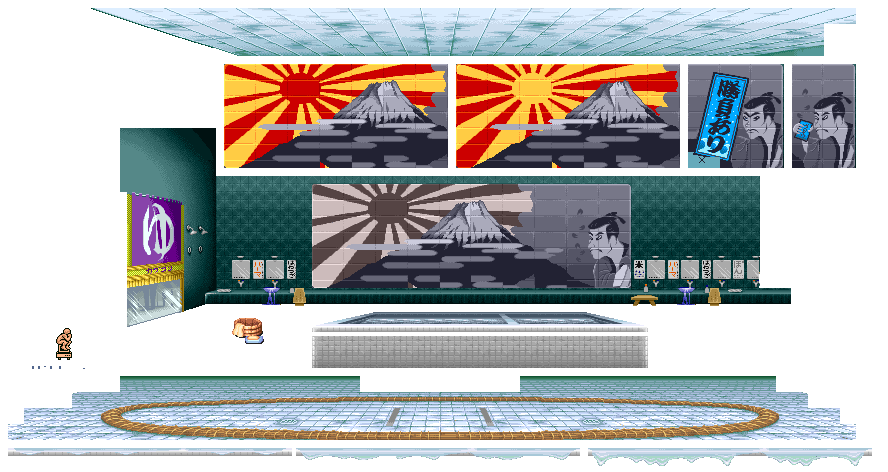
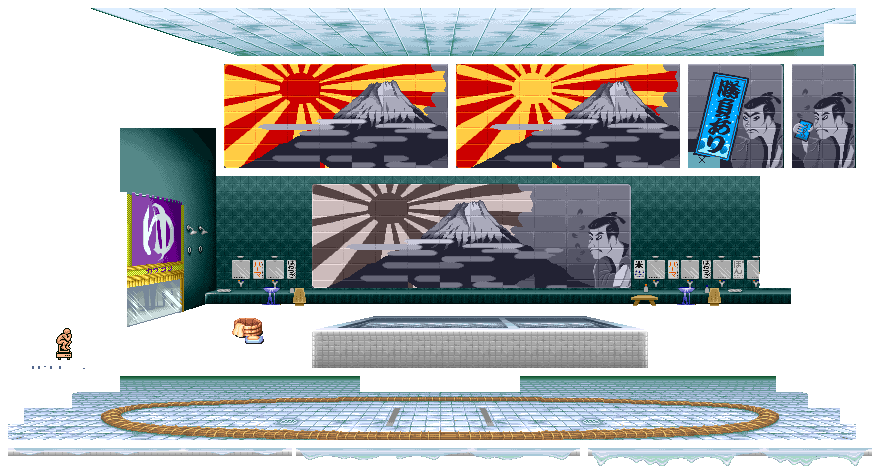
Added some animations on bith scenes

Changed region(s): [[0.3345, 0.6525, 0.7297, 0.7119]]

diff --git a/ModuleSceneKen.cpp b/ModuleSceneKen.cpp
@@ -15,62 +15,90 @@
 ModuleSceneKen::ModuleSceneKen(bool start_enabled) : Module(start_enabled)
 {
 	//Main scene
-	{
+
 		// ground
-		ground.x = 8;
-		ground.y = 391;
-		ground.w = 896;
-		ground.h = 72;
+	ground.x = 8;
+	ground.y = 391;
+	ground.w = 896;
+	ground.h = 72;
 
-		// TODO 2 : setup the foreground (red ship) with
-		// coordinates x,y,w,h from ken_stage.png
+	// TODO 2 : setup the foreground (red ship) with
+	// coordinates x,y,w,h from ken_stage.png
 
-		// Background / sky
-		background.x = 72;
-		background.y = 208;
-		background.w = 768;
-		background.h = 176;
+	// Background / sky
+	background.x = 72;
+	background.y = 208;
+	background.w = 768;
+	background.h = 176;
 
-		//Ship
+	//Ship
 
-		ship.x = 9;
-		ship.y = 23;
-		ship.w = 526;
-		ship.h = 204;
+	ship.x = 9;
+	ship.y = 23;
+	ship.w = 526;
+	ship.h = 204;
 
-		// flag animation
-		flag.frames.push_back({ 848, 208, 40, 40 });
-		flag.frames.push_back({ 848, 256, 40, 40 });
-		flag.frames.push_back({ 848, 304, 40, 40 });
-		flag.speed = 0.08f;
+	// flag animation
+	flag.frames.push_back({ 848, 208, 40, 40 });
+	flag.frames.push_back({ 848, 256, 40, 40 });
+	flag.frames.push_back({ 848, 304, 40, 40 });
+	flag.speed = 0.08f;
 
-		// TODO 4: Setup Girl Animation from coordinates from ken_stage.png
+	// TODO 4: Setup Girl Animation from coordinates from ken_stage.png
 
-		girlpos.x = 191;
-		girlpos.y = 105;
+	girlpos.x = 191;
+	girlpos.y = 105;
 
-		girl.frames.push_back({ 624, 16, 32, 56 });
-		girl.frames.push_back({ 624, 80, 32, 56 });
-		girl.frames.push_back({ 624, 144, 32, 56 });
-		girl.speed = 0.04;
-	}
-	
-	//Next Scene
-	/*App->scene_honda->background.x = 120;
-	App->scene_honda->background.y = 176;
-	App->scene_honda->background.w = 639;
-	App->scene_honda->background.h = 129;
+	girl.frames.push_back({ 624, 16, 32, 56 });
+	girl.frames.push_back({ 624, 80, 32, 56 });
+	girl.frames.push_back({ 624, 144, 32, 56 });
+	girl.speed = 0.04;
 
-	App->scene_honda->ground*/
-	
+	//Some extra animations
+
+	man1pos.x = 127;
+	man1pos.y = 105;
 
 
+	man1.frames.push_back({ 552, 15, 64, 56 });
+	man1.frames.push_back({ 552, 79, 64, 56 });
+	man1.frames.push_back({ 552, 143, 64, 56 });
+	man1.speed = 0.04;
 
-	//?????
-	//App->scene_honda->Disable();
-	//nextScene = App->scene_honda;
-	//if (App->scene_honda != nullptr);
-	//cout << App->scene_honda->IsEnabled() << endl;
+	man2pos.x = 87;
+	man2pos.y = 25;
+
+	man2.frames.push_back({ 760, 16, 40, 40 });
+	man2.frames.push_back({ 760, 64, 40, 40 });
+	man2.frames.push_back({ 760, 112, 40, 40 });
+	man2.speed = 0.04;
+
+	man3pos.x = 127;
+	man3pos.y = 25;
+
+	man3.frames.push_back({ 808, 24, 48, 32 });
+	man3.frames.push_back({ 808, 72, 48, 32 });
+	man3.frames.push_back({ 808, 120, 48, 32 });
+	man3.speed = 0.04;
+
+	man4pos.x = 287;
+	man4pos.y = 98;
+
+	man4.frames.push_back({ 704, 16, 48, 56 });
+	man4.frames.push_back({ 704, 80, 48, 56 });
+	man4.frames.push_back({ 704, 144, 48, 56 });
+	man4.speed = 0.04;
+
+	man5pos.x = 224;
+	man5pos.y = 105;
+
+	man5.frames.push_back({ 664, 16, 32, 56 });
+	man5.frames.push_back({ 664, 80, 32, 56 });
+	//man5.frames.push_back({ 664, 144, 48, 56 });
+	man5.speed = 0.04;
+
+
+
 
 }
 
@@ -81,7 +109,7 @@ ModuleSceneKen::~ModuleSceneKen()
 bool ModuleSceneKen::Start()
 {
 	LOG("Loading ken scene");
-	
+
 	graphics = App->textures->Load("ken_stage.png");
 
 
@@ -89,7 +117,7 @@ bool ModuleSceneKen::Start()
 	App->player->Enable();
 
 	// TODO 0: trigger background music
-	
+	//App->audio->PlayMusic("../Game/ken.ogg");
 	return true;
 }
 
@@ -100,7 +128,7 @@ bool ModuleSceneKen::CleanUp()
 
 	App->textures->Unload(graphics);
 	App->player->Disable();
-	
+
 	return true;
 }
 
@@ -108,15 +136,6 @@ bool ModuleSceneKen::CleanUp()
 update_status ModuleSceneKen::Update()
 {
 	// TODO 5: make sure the ship goes up and down
-
-	// Draw everything --------------------------------------
-	// TODO 1: Tweak the movement speed of the sea&sky + flag to your taste
-	App->renderer->Blit(graphics, 0, 0, &background, 1.0f); // sea and sky
-	App->renderer->Blit(graphics, 560, 8, &(flag.GetCurrentFrame()), 1.0f); // flag animation
-	
-	// TODO 3: Draw the ship. Be sure to tweak the speed.
-	App->renderer->Blit(graphics, 0, 0, &ship, 1.0f); // sea and sky
-
 	timer = SDL_GetTicks() / 1000;
 
 	if (ship.y >= 29)
@@ -125,38 +144,62 @@ update_status ModuleSceneKen::Update()
 	if (ship.y <= 23)
 		ship_up = true;
 
-
-
 	if (timer > lastTime) {
 		if (ship_up) {
 			ship.y += 3;
 			girlpos.y -= 3;
-
+			man1pos.y -= 3;
+			man2pos.y -= 3;
+			man3pos.y -= 3;
+			man4pos.y -= 3;
+			man5pos.y -= 3;
 		}
 
 		else {
 			ship.y -= 3;
 			girlpos.y += 3;
+			man1pos.y += 3;
+			man2pos.y += 3;
+			man3pos.y += 3;
+			man4pos.y += 3;
+			man5pos.y += 3;
 		}
 		lastTime = timer;
 	}
 
-	if (App->input->GetKey(SDL_SCANCODE_SPACE) == KEY_DOWN) {
-		App->scene_ken->Disable();
-		App->fade->FadeToBlack(App->scene_honda, nullptr, 3.0f);
+	// Draw everything --------------------------------------
+	// TODO 1: Tweak the movement speed of the sea&sky + flag to your taste
+	App->renderer->Blit(graphics, 0, 0, &background, 1.0f); // sea and sky
+	App->renderer->Blit(graphics, 560, 8, &(flag.GetCurrentFrame()), 1.0f); // flag animation
 
-	}
-
+	// TODO 3: Draw the ship. Be sure to tweak the speed.
+	App->renderer->Blit(graphics, 0, 0, &ship, 1.0f); // sea and sky
 
 	// TODO 6: Draw the girl. Make sure it follows the ship movement!
 	App->renderer->Blit(graphics, girlpos.x, girlpos.y, &(girl.GetCurrentFrame()), 1.0f);
+
+	//Extra stuff
+	App->renderer->Blit(graphics, man1pos.x, man1pos.y, &(man1.GetCurrentFrame()), 1.0f);
+	App->renderer->Blit(graphics, man2pos.x, man2pos.y, &(man2.GetCurrentFrame()), 1.0f);
+	App->renderer->Blit(graphics, man3pos.x, man3pos.y, &(man3.GetCurrentFrame()), 1.0f);
+	App->renderer->Blit(graphics, man4pos.x, man4pos.y, &(man4.GetCurrentFrame()), 1.0f);
+	App->renderer->Blit(graphics, man5pos.x, man5pos.y, &(man5.GetCurrentFrame()), 1.0f);
+
+
 	App->renderer->Blit(graphics, 0, 170, &ground);
 
 	// TODO 10: Build an entire new scene "honda", you can find its
 	// and music in the Game/ folder
 
+	//I've created a module for the Honda scene
+
 	// TODO 11: Make that pressing space triggers a switch to honda logic module
 	// using FadeToBlack module
+	if (App->input->GetKey(SDL_SCANCODE_SPACE) == KEY_DOWN) {
+		App->scene_ken->Disable();
+		App->fade->FadeToBlack(App->scene_honda, nullptr, 3.0f);
+
+	}
 
 	return UPDATE_CONTINUE;
 }

diff --git a/ModuleSceneHonda.cpp b/ModuleSceneHonda.cpp
@@ -22,14 +22,14 @@ ModuleSceneHonda::ModuleSceneHonda(bool start_enabled) : Module(start_enabled)
 	background.h = 131;
 
 	bath.x = 312;
-	bath.y = 336;
+	bath.y = 316;
 	bath.w = 336;
-	bath.h = 32;
+	bath.h = 52;
 
-	bath_water.x = 312;
-	bath_water.y = 312;
-	bath_water.w = 336;
-	bath_water.y = 20;
+	water.frames.push_back({ 8, 448, 284, 8 });
+	water.frames.push_back({ 296, 448, 284, 13 });
+	water.frames.push_back({ 588, 448, 284, 18 });
+	water.speed = 0.04f;
 
 	ground.x = 8;
 	ground.y = 376;
@@ -48,10 +48,15 @@ bool ModuleSceneHonda::Start()
 
 	graphics = App->textures->Load("honda_stage.png");
 
-	// TODO 7: Enable the player module
 	App->player->Enable();
+	App->audio->PlayMusic("../Game/honda.ogg");
 
-	// TODO 0: trigger background music
+	App->player->position.x = 100;
+	App->player->position.y = 100;
+
+	App->renderer->camera.x = App->renderer->camera.y = 0;
+
+
 
 	return true;
 }
@@ -73,10 +78,11 @@ update_status ModuleSceneHonda::Update()
 
 
 	// Draw everything --------------------------------------
-	//App->renderer->Blit(graphics, -150, 160, &ground);
-	//App->renderer->Blit(graphics, 0, 25, &background, 1.0f);
-	//App->renderer->Blit(graphics, 100, 145, &bath, 1.0f);
-	App->renderer->Blit(graphics,100, 0, &bath_water, 1.0f);
+	App->renderer->Blit(graphics, -150, 160, &ground);
+	App->renderer->Blit(graphics, 0, 25, &background);
+
+	App->renderer->Blit(graphics, 100, 125, &bath);
+	App->renderer->Blit(graphics, 100, 138, &(water.GetCurrentFrame()), 1.0f); // flag animation
 
 
 

diff --git a/ModuleRender.cpp b/ModuleRender.cpp
@@ -54,11 +54,11 @@ update_status ModuleRender::Update()
 	// debug camera
 	int speed = 1;
 
-	if(App->input->GetKey(SDL_SCANCODE_UP) == KEY_REPEAT)
-		App->renderer->camera.y += speed;
+	//if(App->input->GetKey(SDL_SCANCODE_UP) == KEY_REPEAT)
+		//App->renderer->camera.y += speed;
 
-	if(App->input->GetKey(SDL_SCANCODE_DOWN) == KEY_REPEAT)
-		App->renderer->camera.y -= speed;
+	//if(App->input->GetKey(SDL_SCANCODE_DOWN) == KEY_REPEAT)
+		//App->renderer->camera.y -= speed;
 
 	if(App->input->GetKey(SDL_SCANCODE_LEFT) == KEY_REPEAT)
 		App->renderer->camera.x += speed;

diff --git a/ModuleSceneKen.h b/ModuleSceneKen.h
@@ -28,8 +28,8 @@ public:
 	SDL_Rect ground;
 	SDL_Rect background;
 	SDL_Rect ship;
-	SDL_Rect girlpos;
-	Animation flag, girl;
+	SDL_Rect girlpos, man1pos, man2pos, man3pos, man4pos, man5pos;
+	Animation flag, girl, man1, man2, man3, man4, man5;
 };
 
 #endif // __MODULESCENEKEN_H__

diff --git a/ModuleSceneHonda.h b/ModuleSceneHonda.h
@@ -23,8 +23,10 @@ public:
 	SDL_Texture* graphics = nullptr;
 
 	SDL_Rect ground;
-	SDL_Rect background, bath_water, bath;
+	SDL_Rect background;
+	SDL_Rect bath;
 	
+	Animation water;
 	
 };
 
